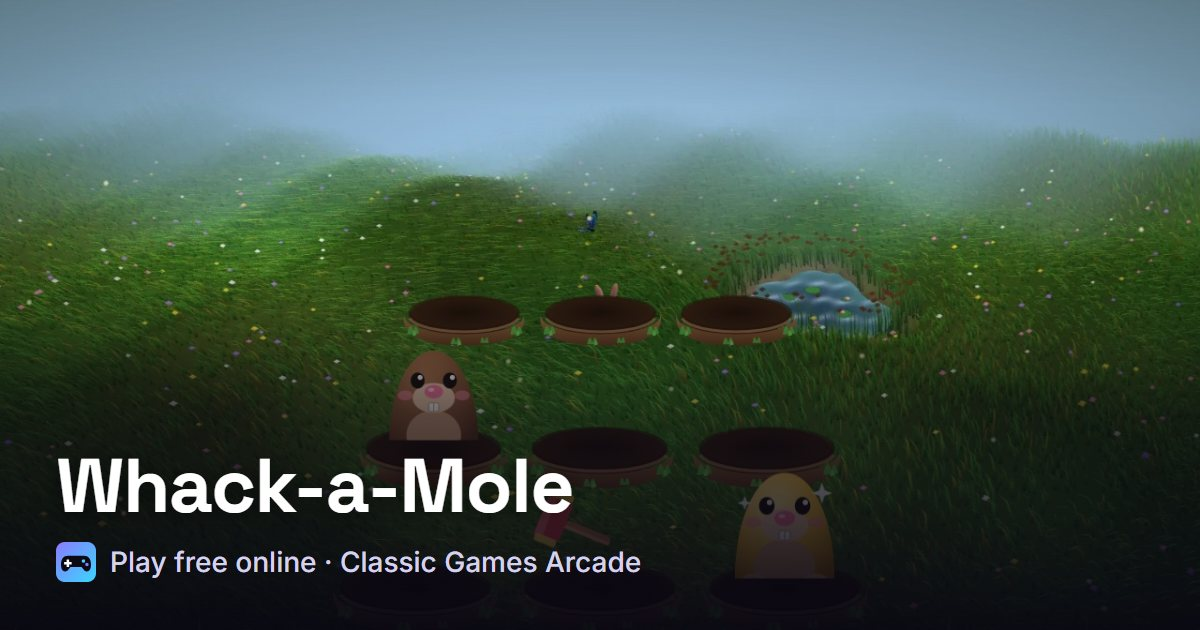
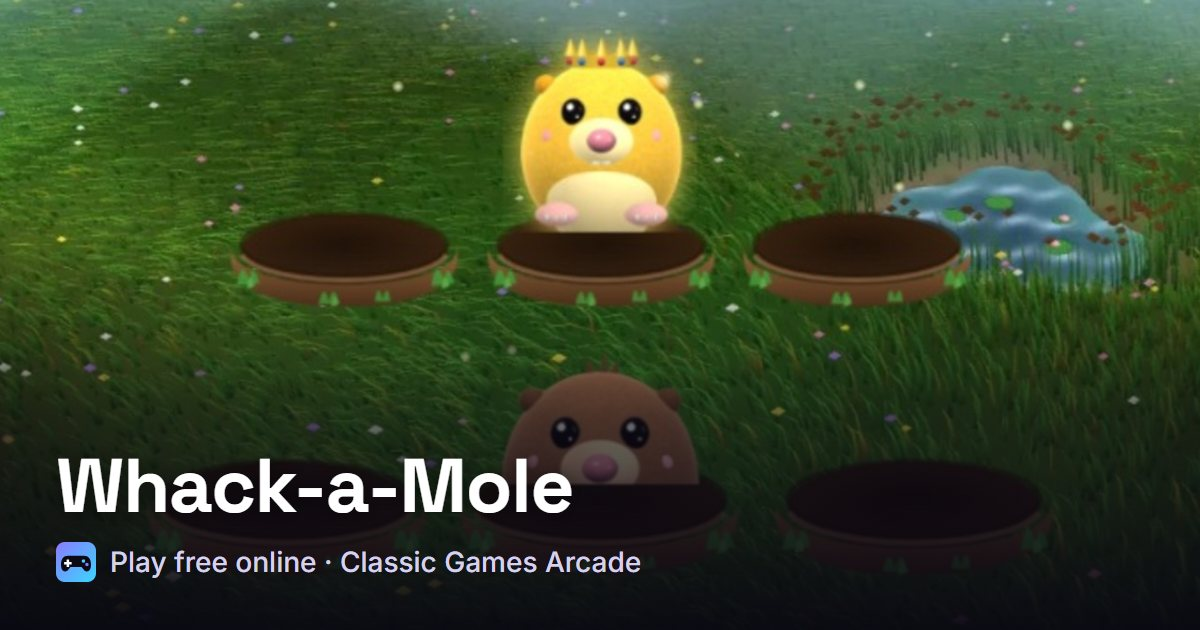
Whack-a-Mole: cute 3D-rendered moles
- New 3D characters built from smooth-shaded meshes and rendered through the
  projection3d Space camera into transparent sprites (public/img/mole/,
  116 KB total): a chubby mole with velvety fur, glossy eyes with sparkles,
  pink nose, blush, buck teeth, ears, hair tuft and clawed paws; a golden
  mole with a jewelled crown; and an angry glossy bomb with a lit fuse.
- Frames: idle, blink, glance left/right, bonked (X eyes, open mouth, 3D
  dizzy stars) for moles; idle/blink/bonked for golden; two fuse frames for
  the bomb. All are decoded up front so swaps are instant.
- While up, moles blink and glance around at random, breathe with a soft
  squash, squash on a hit; golden moles glow; bombs wobble and flicker.
  Title mascot blinks. The illustrated SVG moles are removed.
- New gallery thumbnail and social image.

diff --git a/public/whackamole.html b/public/whackamole.html
@@ -145,23 +145,18 @@
   .hole .pit { top: 58%; }
   .hole .lip { top: 63%; z-index: 3; pointer-events: none; }
   .clip { position: absolute; left: 12%; right: 12%; top: -30%; height: 98%; overflow: hidden; z-index: 2; pointer-events: none; }
-  .mole { position: absolute; left: 0; right: 0; bottom: 0; height: 76%; transform: translateY(105%); transition: transform .14s cubic-bezier(.3, 1.4, .5, 1); }
-  .mole svg { position: absolute; inset: 0; width: 100%; height: 100%; overflow: visible; }
-  .hole.up .mole { transform: translateY(14%); }
-  .hole.hit .mole { transform: translateY(46%) rotate(-6deg); transition: transform .1s ease-out; }
-  .hole.leave .mole { transform: translateY(105%); transition: transform .2s ease-in; }
-  .ko, .dizzy { display: none; }
-  .hit .ko, .hit .dizzy { display: inline; }
-  .hit .eyes { display: none; }
-  .dizzy { transform-origin: 50px 20px; animation: spin 0.7s linear infinite; }
-  @keyframes spin { to { transform: rotate(360deg); } }
-  .kind-gold .fur { fill: url(#gGold); } .kind-gold .shine { display: inline; }
-  .shine { display: none; animation: twinkle 0.8s ease-in-out infinite; transform-origin: center; }
-  @keyframes twinkle { 50% { opacity: 0.2; transform: scale(0.6); } }
-  .bomb { display: none; }
-  .kind-bomb .critter { display: none; } .kind-bomb .bomb { display: inline; }
-  .spark { animation: flick 0.18s steps(2) infinite; }
-  @keyframes flick { 50% { opacity: 0.4; } }
+  /* the moles are 3D renders (projection3d Space camera, baked to sprites) brought to life with frame swaps */
+  .mole { position: absolute; left: -18%; right: -18%; bottom: 0; height: 100%; transform: translateY(108%); transition: transform .16s cubic-bezier(.3, 1.5, .5, 1); }
+  .mole img { position: absolute; inset: 0; width: 100%; height: 100%; object-fit: contain; object-position: 50% 100%; transform-origin: 50% 92%; animation: idle 1.5s ease-in-out infinite; -webkit-user-drag: none; }
+  @keyframes idle { 50% { transform: scale(1.025, 0.975); } }
+  .hole.up .mole { transform: translateY(8%); }
+  .hole.hit .mole { transform: translateY(22%); transition: transform .1s ease-out; }
+  .hole.hit .mole img { animation: squash .3s ease-out; }
+  @keyframes squash { 0% { transform: scale(1.25, 0.72); } 60% { transform: scale(0.95, 1.05); } 100% { transform: scale(1, 1); } }
+  .hole.leave .mole { transform: translateY(108%); transition: transform .2s ease-in; }
+  .kind-gold .mole img { filter: drop-shadow(0 0 10px rgba(255, 214, 90, 0.85)); }
+  .kind-bomb .mole img { animation: wobble .5s ease-in-out infinite; }
+  @keyframes wobble { 25% { transform: rotate(-3deg); } 75% { transform: rotate(3deg); } }
 
   /* hammer */
   #hammer { position: fixed; left: 0; top: 0; width: 92px; height: 92px; pointer-events: none; z-index: 9; transform-origin: 78% 82%; opacity: 0; transition: opacity .15s; }
@@ -190,13 +185,13 @@
   @keyframes rise { from { transform: translateY(50px) scale(0.92); opacity: 0; } }
   .logo { font-size: clamp(42px, 11vw, 58px); line-height: 0.95; font-weight: 700; color: #fff; -webkit-text-stroke: 3px #7a4519; text-shadow: 0 5px 0 #7a4519, 0 12px 20px rgba(90, 50, 10, 0.3); margin-bottom: 4px; }
   .logo span { color: #ffd34d; }
-  .card .mascot { width: 120px; height: 104px; margin: 4px auto -6px; }
-  .card .mascot svg { width: 100%; height: 100%; overflow: visible; }
+  .card .mascot { width: 132px; height: 132px; margin: -6px auto -10px; }
+  .card .mascot img { width: 100%; height: 100%; object-fit: contain; transform-origin: 50% 90%; animation: idle 1.5s ease-in-out infinite; }
   .card p { font-size: 15px; color: #7a5532; }
   .legend { display: grid; grid-template-columns: repeat(3, 1fr); gap: 6px; margin: 14px 0 4px; }
   .legend div { padding: 8px 4px; border-radius: 14px; background: rgba(255, 255, 255, 0.7); font-size: 12px; font-weight: 600; color: #7a5532; }
-  .legend i { display: block; width: 38px; height: 38px; margin: 0 auto 2px; }
-  .legend svg { width: 100%; height: 100%; display: block; overflow: visible; }
+  .legend i { display: block; width: 46px; height: 46px; margin: 0 auto 2px; }
+  .legend img { width: 100%; height: 100%; display: block; object-fit: contain; }
   .legend b { display: block; font-size: 15px; color: #4a2c12; }
   .best { margin-top: 10px; font-size: 14px; font-weight: 600; color: #a0703a; }
   .best b { color: #4a2c12; font-size: 18px; }
@@ -219,7 +214,7 @@
   @media (pointer: coarse) { .keys { display: none; } .hole { cursor: default; } #live { display: none; } }
   @media (max-aspect-ratio: 4/5) { #board { bottom: calc(10vh + env(safe-area-inset-bottom)); width: min(98vw, 70vh); } }
   @media (max-width: 420px) { .pill { min-width: 76px; padding: 5px 10px 6px; } .pill b { font-size: 24px; } #timer { width: 56px; height: 56px; } }
-  @media (prefers-reduced-motion: reduce) { .dizzy, .shine, .spark, #o-new, #meadow, .blade, .pollen { animation: none; } }
+  @media (prefers-reduced-motion: reduce) { .mole img, #o-new, #meadow, #sway svg, .pollen { animation: none !important; } }
 </style>
 </head>
 <body data-state="title">
@@ -238,36 +233,6 @@
     <linearGradient id="gLip" x1="0" y1="0" x2="0" y2="1"><stop offset="0" stop-color="#9a6a3e"/><stop offset="1" stop-color="#5e3a1c"/></linearGradient>
   </defs>
 </svg>
-
-<template id="moleTpl"><svg viewBox="0 0 100 100" aria-hidden="true">
-      <g class="critter">
-        <path class="fur" d="M14 100 C12 52 28 14 50 14 C72 14 88 52 86 100 Z" fill="url(#gFur)"/>
-        <ellipse cx="50" cy="82" rx="22" ry="20" fill="#d9ab80" opacity="0.9"/>
-        <ellipse cx="50" cy="52" rx="17" ry="12" fill="#f0cfaa"/>
-        <g class="eyes">
-          <ellipse cx="37" cy="38" rx="5.6" ry="6.4" fill="#1b120c"/><ellipse cx="63" cy="38" rx="5.6" ry="6.4" fill="#1b120c"/>
-          <circle cx="39" cy="35.5" r="2" fill="#fff"/><circle cx="65" cy="35.5" r="2" fill="#fff"/>
-        </g>
-        <g class="ko" stroke="#1b120c" stroke-width="3.2" stroke-linecap="round">
-          <path d="M32 33 L42 43 M42 33 L32 43"/><path d="M58 33 L68 43 M68 33 L58 43"/>
-        </g>
-        <ellipse cx="27" cy="50" rx="6" ry="4" fill="#ff8fa3" opacity="0.6"/><ellipse cx="73" cy="50" rx="6" ry="4" fill="#ff8fa3" opacity="0.6"/>
-        <ellipse cx="50" cy="47" rx="7.5" ry="5.4" fill="#ff7a9a"/><ellipse cx="48" cy="45.5" rx="2.4" ry="1.5" fill="#fff" opacity="0.7"/>
-        <rect x="46" y="56" width="8" height="7" rx="1.5" fill="#fff" stroke="#c9a37f" stroke-width="0.8"/><path d="M50 56 V63" stroke="#c9a37f" stroke-width="0.8"/>
-        <ellipse cx="28" cy="94" rx="10" ry="7" fill="#e8b98e"/><ellipse cx="72" cy="94" rx="10" ry="7" fill="#e8b98e"/>
-        <path d="M22 92 v4 M27 91 v5 M32 92 v4 M68 92 v4 M73 91 v5 M78 92 v4" stroke="#a87a52" stroke-width="1.6" stroke-linecap="round"/>
-        <g class="shine" fill="#fff"><path d="M78 20 l2 6 6 2 -6 2 -2 6 -2 -6 -6 -2 6 -2z"/><path d="M20 30 l1.4 4 4 1.4 -4 1.4 -1.4 4 -1.4 -4 -4 -1.4 4 -1.4z"/></g>
-      </g>
-      <g class="bomb">
-        <circle cx="50" cy="62" r="32" fill="url(#gBomb)"/>
-        <ellipse cx="38" cy="48" rx="9" ry="6" fill="#fff" opacity="0.25" transform="rotate(-30 38 48)"/>
-        <rect x="42" y="24" width="16" height="10" rx="3" fill="#55555f"/>
-        <path d="M50 24 C52 14 60 12 64 6" fill="none" stroke="#c9a46a" stroke-width="3" stroke-linecap="round"/>
-        <g class="spark"><circle cx="65" cy="5" r="5" fill="#ffd34d"/><circle cx="65" cy="5" r="2.5" fill="#fff"/></g>
-        <text x="50" y="72" text-anchor="middle" font-family="Fredoka, sans-serif" font-size="20" font-weight="700" fill="#ff5a5a">✕</text>
-      </g>
-      <g class="dizzy" fill="#ffd34d"><path d="M50 4 l1.5 4.5 4.5 1.5 -4.5 1.5 -1.5 4.5 -1.5 -4.5 -4.5 -1.5 4.5 -1.5z"/><path d="M28 18 l1.2 3.6 3.6 1.2 -3.6 1.2 -1.2 3.6 -1.2 -3.6 -3.6 -1.2 3.6 -1.2z"/><path d="M72 18 l1.2 3.6 3.6 1.2 -3.6 1.2 -1.2 3.6 -1.2 -3.6 -3.6 -1.2 3.6 -1.2z"/></g>
-</svg></template>
 
 <div id="top">
   <button id="pause" class="icon" aria-label="Pause" title="Pause (P)"><svg viewBox="0 0 24 24"><path d="M7 5h3.5v14H7zM13.5 5H17v14h-3.5z"/></svg></button>
@@ -404,8 +369,18 @@
   syncMute();
 
   // ---------- board ----------
-  const MOLE = $("moleTpl").innerHTML;
-  for (const slot of document.querySelectorAll("[data-mole]")) slot.innerHTML = MOLE;
+  const FRAMES = ["mole-idle", "mole-blink", "mole-left", "mole-right", "mole-hit", "gold-idle", "gold-blink", "gold-hit", "bomb-a", "bomb-b"];
+  const src = (name) => `/img/mole/${name}.webp`;
+  for (const n of FRAMES) { const im = new Image(); im.src = src(n); if (im.decode) im.decode().catch(() => { }); }   // all decoded up front: frame swaps are instant
+  const MOLE = `<img alt="" draggable="false" src="${src("mole-idle")}">`;
+  for (const slot of document.querySelectorAll("[data-mole]")) {
+    const k = slot.parentElement.classList;
+    slot.innerHTML = `<img alt="" draggable="false" src="${src(k.contains("kind-gold") ? "gold-idle" : k.contains("kind-bomb") ? "bomb-a" : "mole-idle")}">`;
+  }
+  { // the title mascot blinks now and then
+    const m = document.querySelector(".mascot img");
+    setInterval(() => { if (!m) return; m.src = src("mole-blink"); setTimeout(() => { m.src = src(Math.random() < 0.3 ? (Math.random() < 0.5 ? "mole-left" : "mole-right") : "mole-idle"); }, 140); }, 2600);
+  }
   const board = $("board");
   const holes = [];
   const PIT = '<svg class="pit" viewBox="0 0 100 34"><ellipse cx="50" cy="17" rx="40" ry="14" fill="url(#gPit)"/><ellipse cx="50" cy="15" rx="40" ry="12" fill="none" stroke="#2a180a" stroke-width="2" opacity="0.6"/></svg>';
@@ -420,7 +395,7 @@
       el.className = "hole";
       el.innerHTML = `${PIT}<div class="clip"><div class="mole">${MOLE}</div></div>${LIP}`;
       row.appendChild(el);
-      const h = { el, i: holes.length, state: "down", kind: "mole", until: 0 };
+      const h = { el, img: el.querySelector(".mole img"), i: holes.length, state: "down", kind: "mole", until: 0, frame: "mole-idle", nextAct: 0, actUntil: 0, act: null };
       holes.push(h);
       el.addEventListener("pointerdown", (e) => { e.preventDefault(); whack(h, e); });
     }
@@ -448,10 +423,24 @@
   function bumpScore() { const el = $("scoreVal"); el.classList.remove("bump"); void el.offsetWidth; el.classList.add("bump"); }
 
   function setKind(h, kind) { h.kind = kind; h.el.classList.remove("kind-mole", "kind-gold", "kind-bomb"); h.el.classList.add("kind-" + kind); }
+  function setFrame(h, name) { if (h.frame !== name) { h.frame = name; h.img.src = src(name); } }
+  const idleFrame = (h) => (h.kind === "bomb" ? "bomb-a" : h.kind === "gold" ? "gold-idle" : "mole-idle");
+  // while a mole is up it blinks and glances around; the bomb's fuse flickers
+  function animateMole(h, now) {
+    if (h.kind === "bomb") { setFrame(h, Math.floor(now / 110) % 2 ? "bomb-b" : "bomb-a"); return; }
+    if (now >= h.nextAct) {
+      const r = Math.random();
+      h.act = h.kind === "gold" || r < 0.5 ? (h.kind === "gold" ? "gold-blink" : "mole-blink") : r < 0.75 ? "mole-left" : "mole-right";
+      h.actUntil = now + (h.act.endsWith("blink") ? 130 : 420);
+      h.nextAct = now + 600 + Math.random() * 900;
+    }
+    setFrame(h, now < h.actUntil ? h.act : idleFrame(h));
+  }
   function raise(h, now) {
     const t = elapsed / 1000;
     const r = Math.random();
     setKind(h, t > 4 && r < 0.13 ? "bomb" : r > 0.92 ? "gold" : "mole");
+    setFrame(h, idleFrame(h)); h.nextAct = now + 250 + Math.random() * 500; h.actUntil = 0;
     const stay = Math.max(560, 1150 - t * 17) * (h.kind === "gold" ? 0.75 : h.kind === "bomb" ? 1.25 : 1);
     h.state = "up"; h.until = now + stay;
     h.el.classList.remove("hit", "leave"); h.el.classList.add("up");
@@ -471,6 +460,7 @@
     if (h.state !== "up") { combo = 0; updateHud(); sound.whiff(); dust(e.clientX, e.clientY, 5); return; }
     h.state = "hit";
     h.el.classList.add("hit");
+    if (h.kind !== "bomb") setFrame(h, h.kind === "gold" ? "gold-hit" : "mole-hit");
     const rect = h.el.getBoundingClientRect(), x = rect.left + rect.width / 2, y = rect.top + rect.height * 0.32;
     if (h.kind === "bomb") {
       score = Math.max(0, score - 3); timeLeft = Math.max(0, timeLeft - 2000); combo = 0;
@@ -587,7 +577,7 @@
       timeLeft -= dt; elapsed += dt;
       const sec = Math.ceil(timeLeft / 1000);
       if (timeLeft <= 5000 && sec !== loop.lastSec) { loop.lastSec = sec; if (sec > 0) sound.tick(true); }
-      for (const h of holes) if (h.state === "up" && now > h.until) lower(h, true);
+      for (const h of holes) if (h.state === "up") { if (now > h.until) lower(h, true); else animateMole(h, now); }
       const t = elapsed / 1000, maxUp = Math.min(3, 1 + Math.floor(t / 9));
       if (now >= nextSpawn) {
         const free = holes.filter((h) => h.state === "down");
